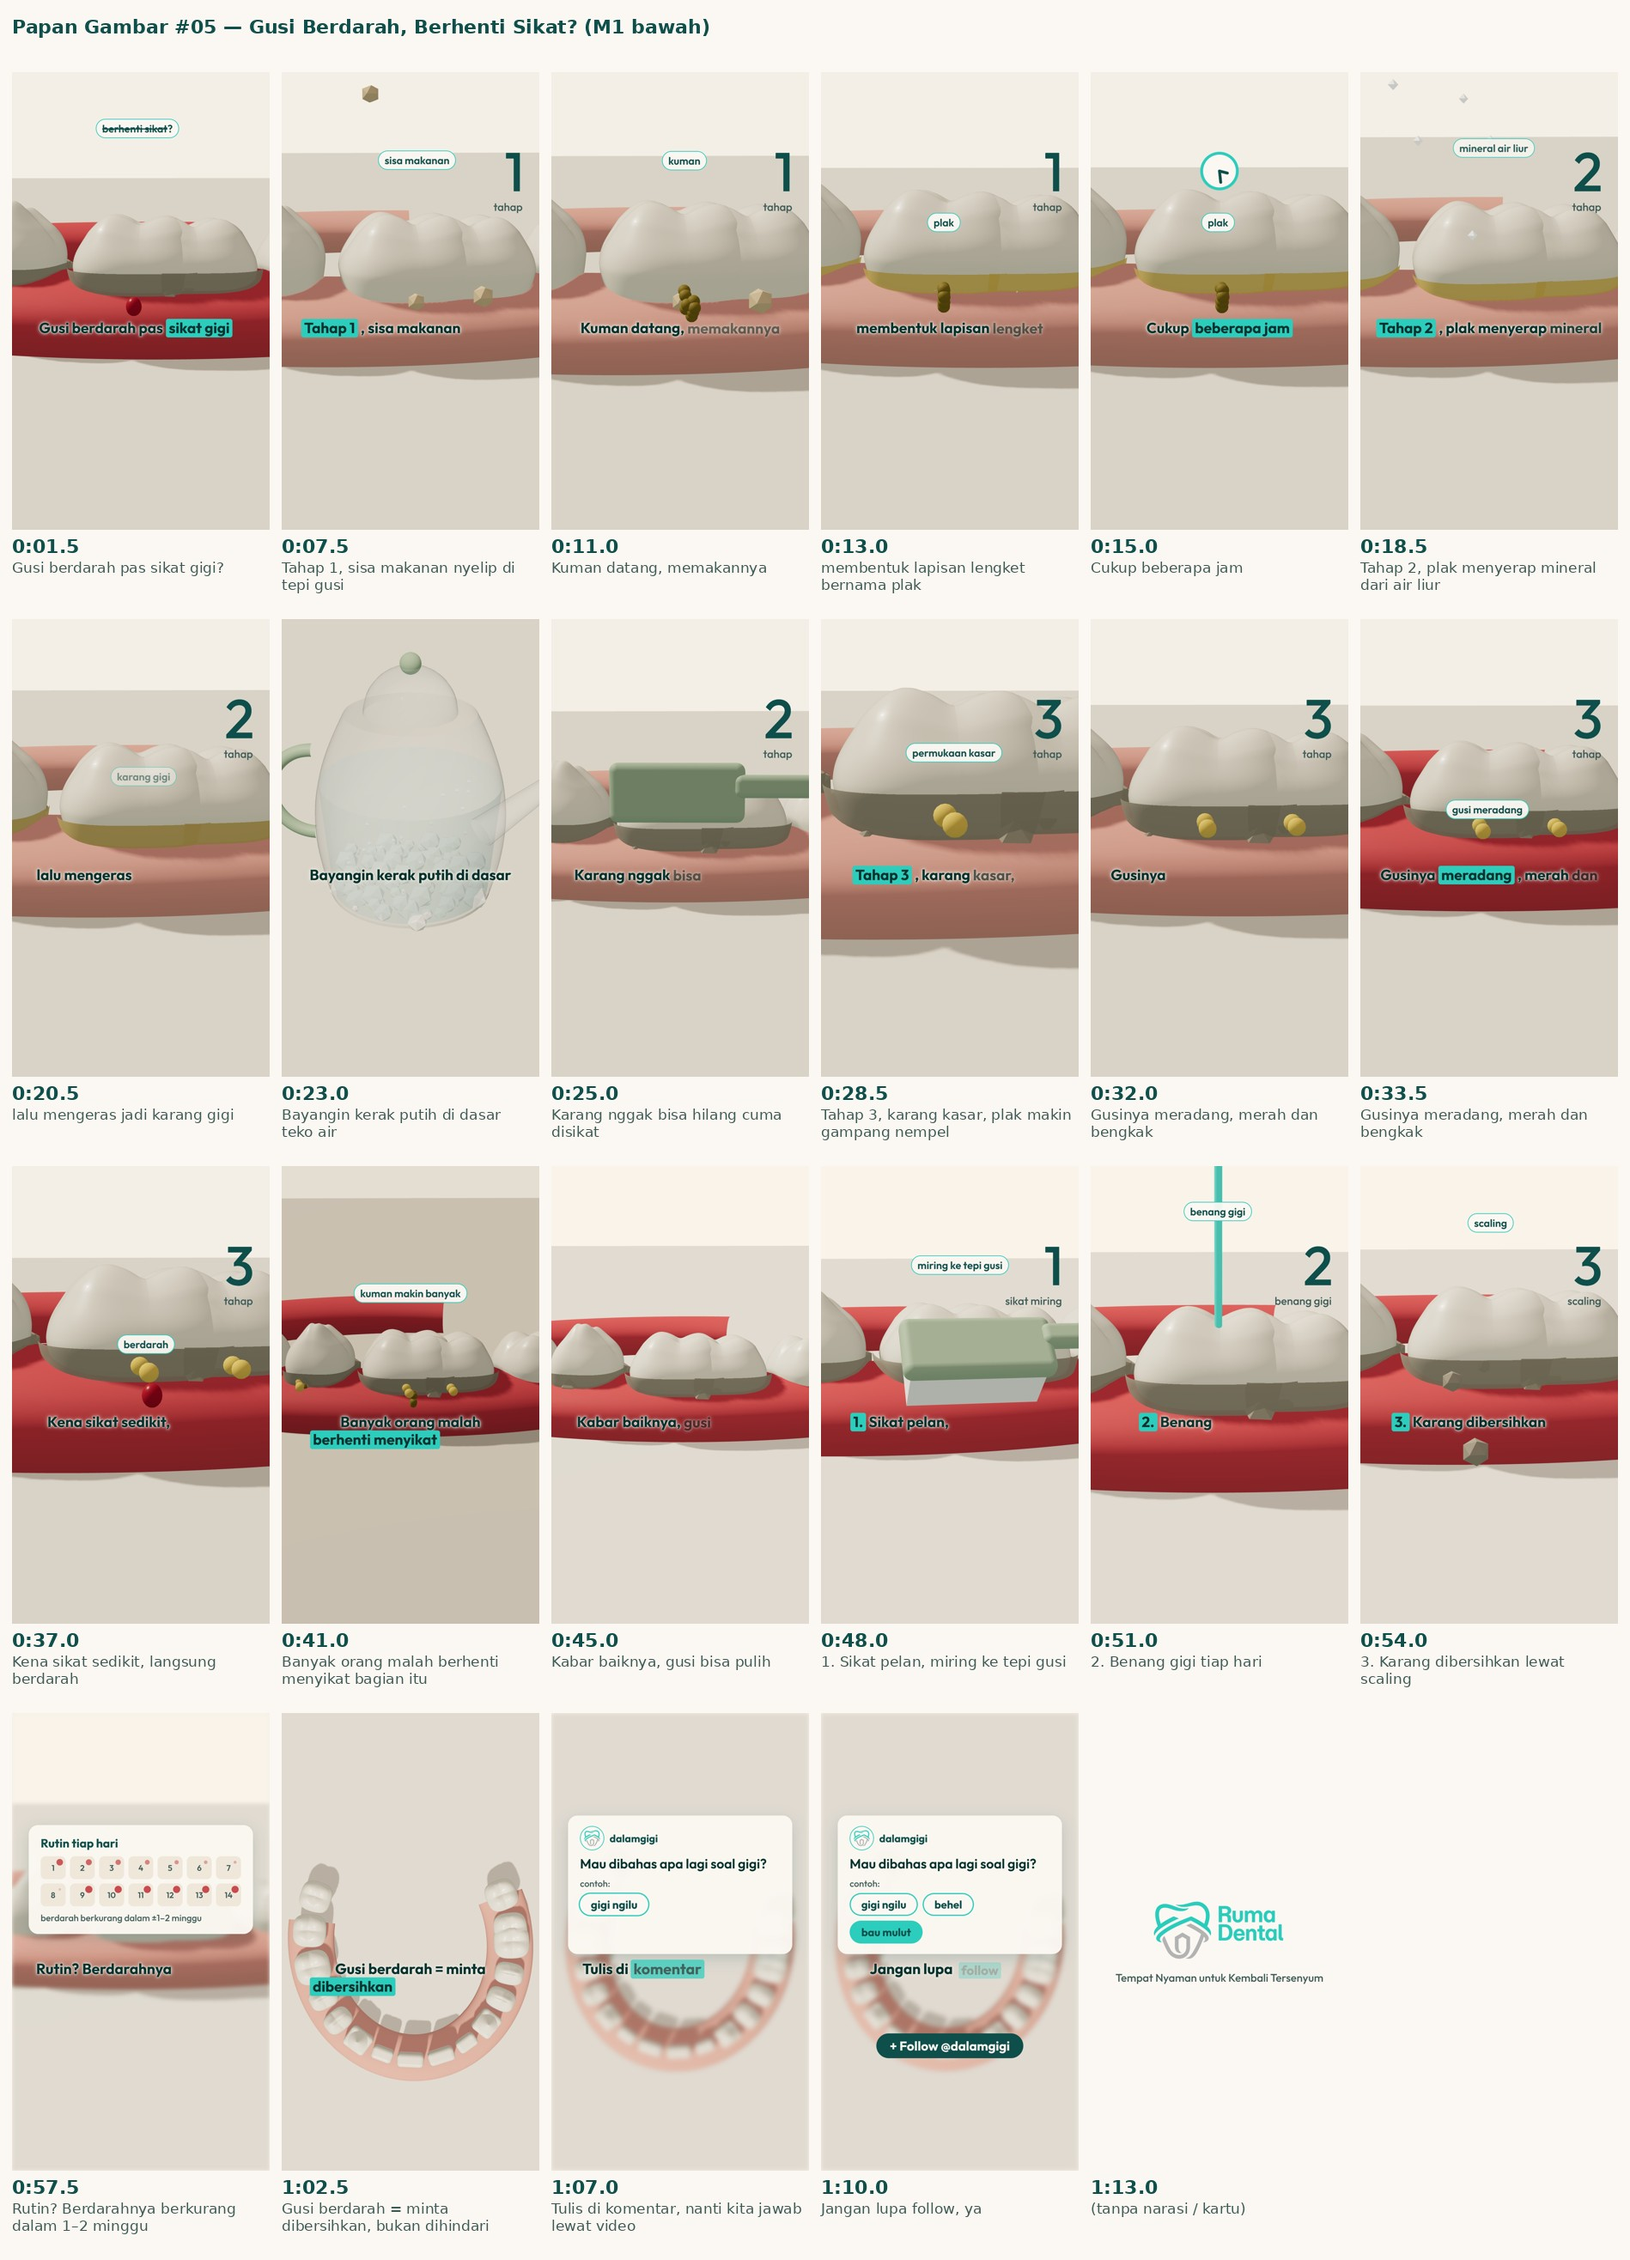
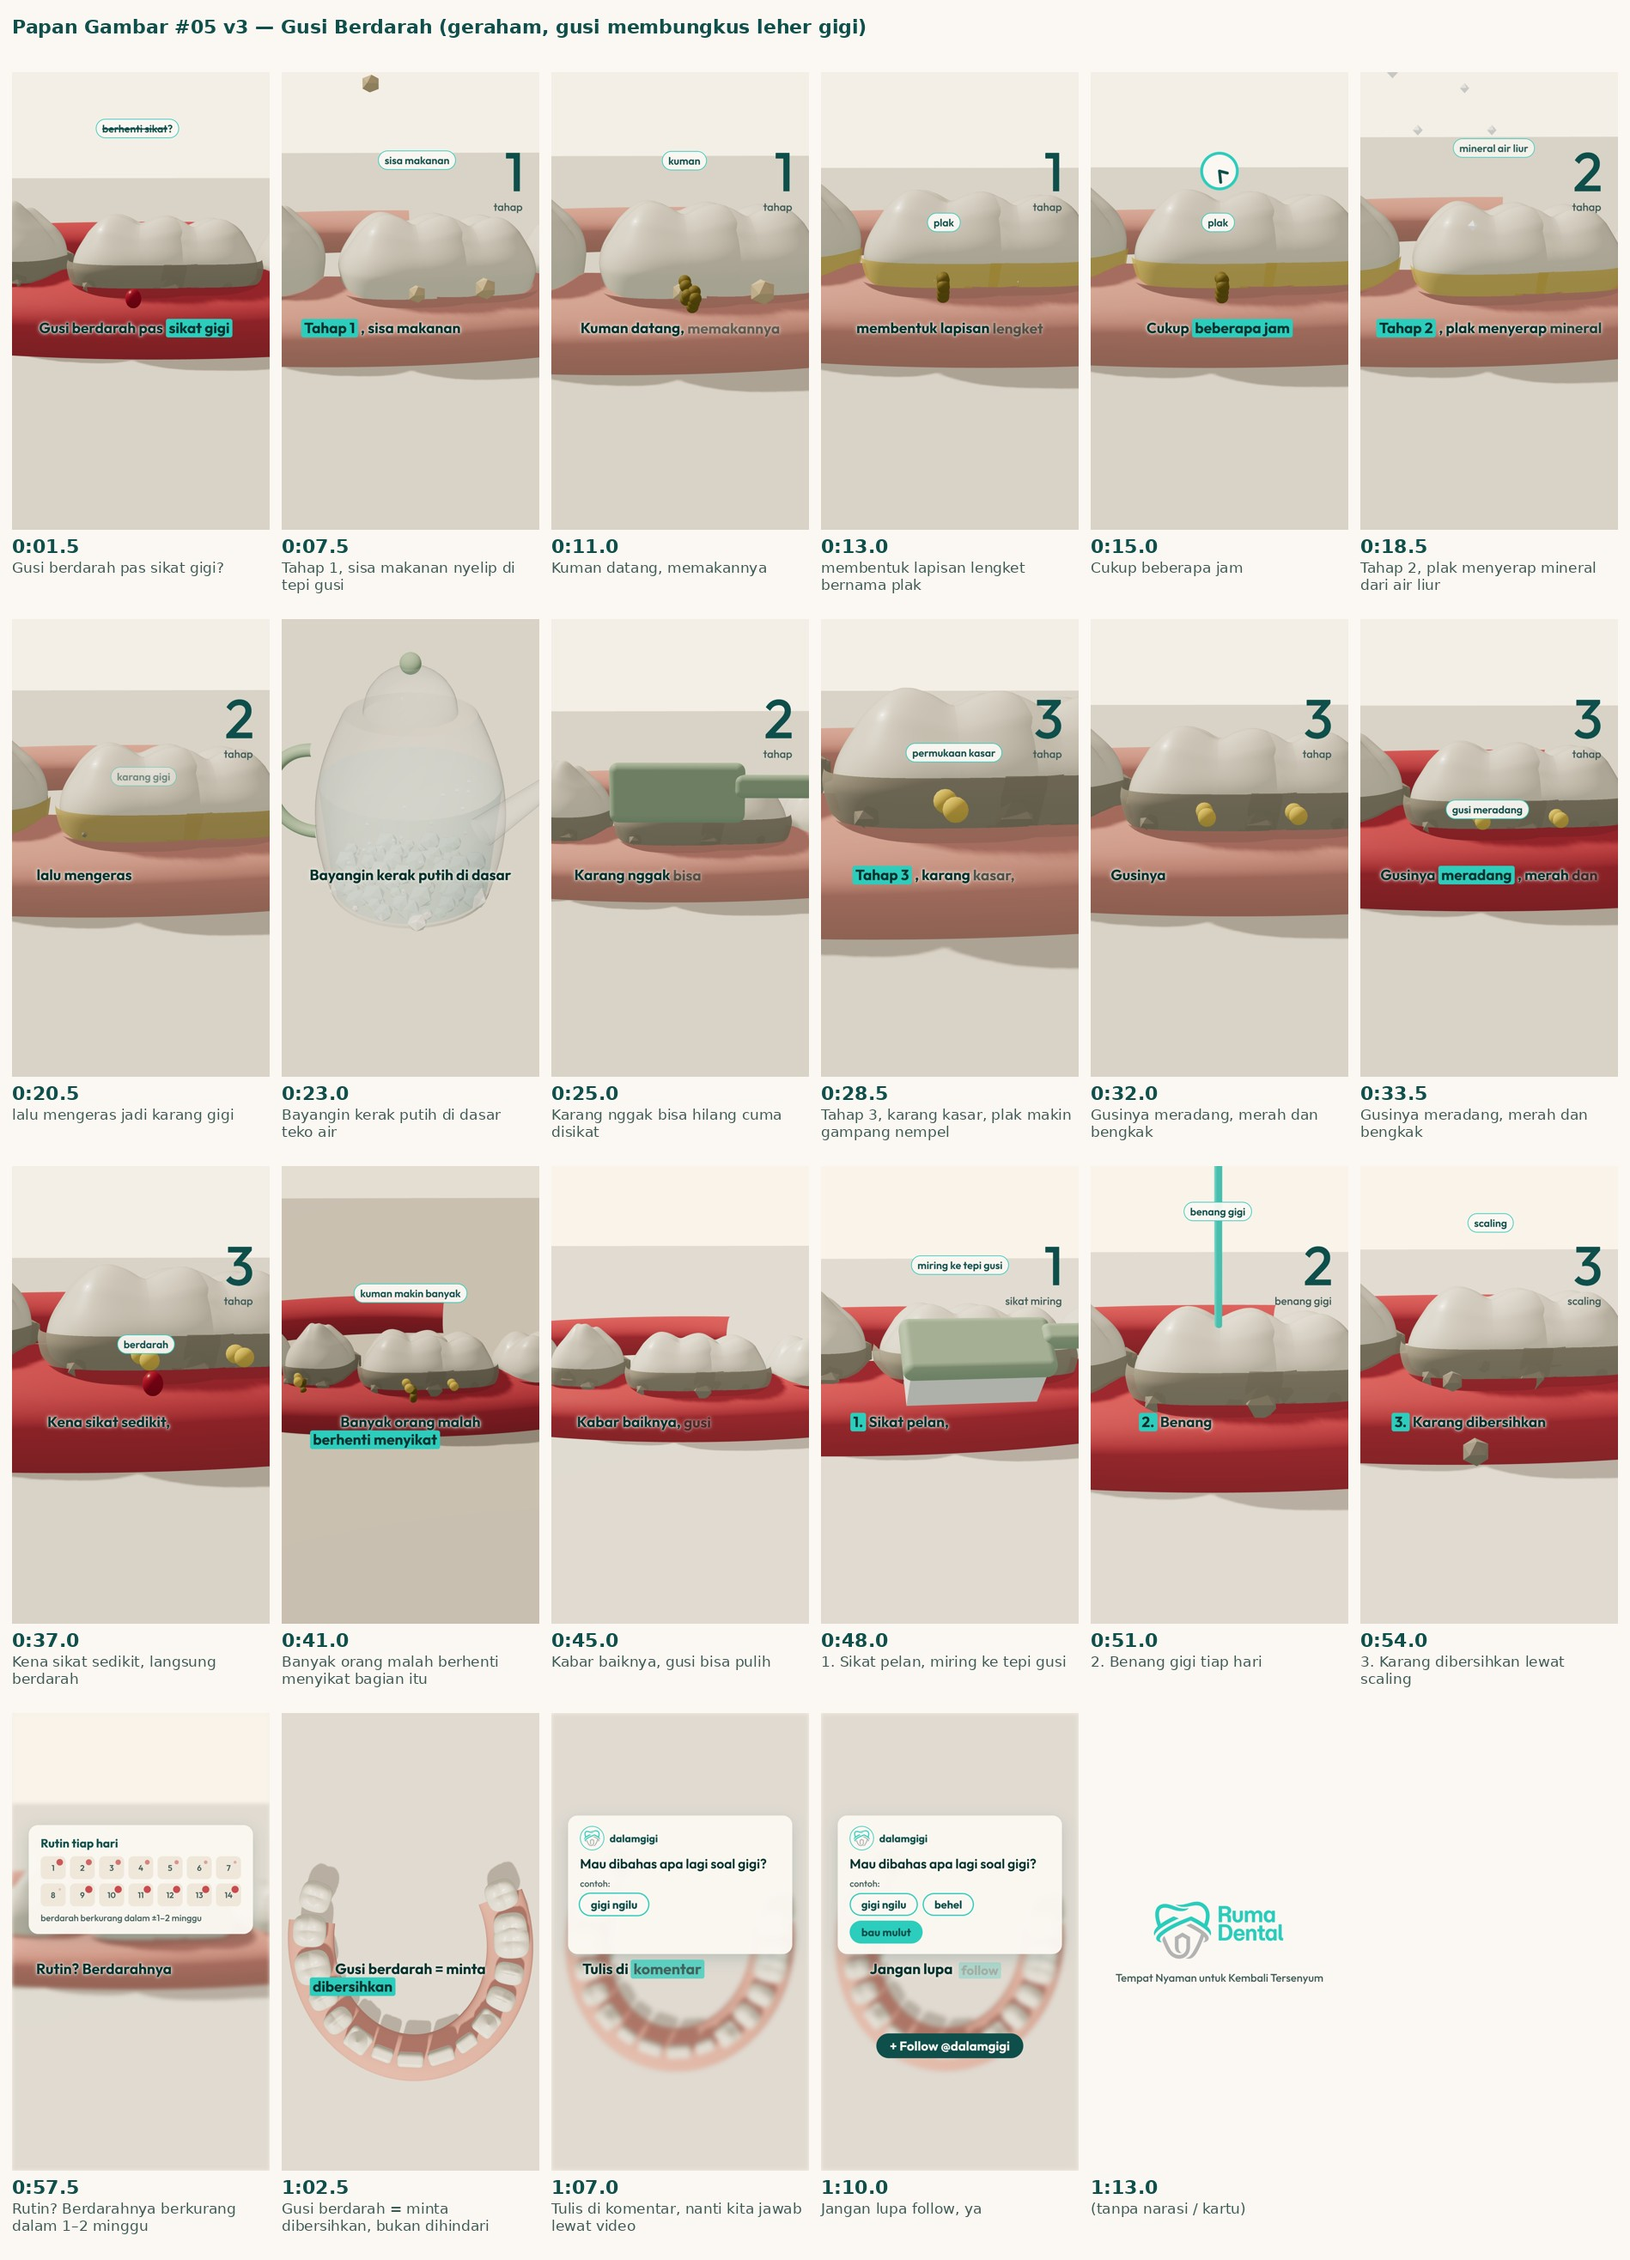
#05 v3 papan: kerah gusi membungkus leher gigi; standar di skill
Claude-Session: https://claude.ai/code/session_016b8dWEsdGvtL7SNg39w4Un

diff --git a/.claude/skills/produksi-video-klinik/scripts/gusi.html b/.claude/skills/produksi-video-klinik/scripts/gusi.html
@@ -118,18 +118,20 @@ const teeth=[];
   const gum=new THREE.Mesh(new THREE.TubeGeometry(new THREE.CatmullRomCurve3(pts),180,0.7,24,false),gumM);gum.scale.y=0.42;gum.receiveShadow=true;archG.add(gum);archG.userData.gum=gum;
 })();
 archG.updateMatrixWorld(true);
+const collarM=gumM.clone();collarM.clippingPlanes=[new THREE.Plane(new THREE.Vector3(0,-1,0),0.27)];
+teeth.forEach(t=>{const c=new THREE.Mesh(t.g.children[0].geometry,collarM);c.scale.set(1.13,1,1.1);c.receiveShadow=true;t.g.add(c);});
 const front=teeth.filter(t=>t.side===1&&t.k>=4&&t.k<=6);
 // plaque/tartar bands on front teeth
-const bandM=new THREE.MeshStandardMaterial({color:'#E6C463',roughness:0.85,transparent:true,opacity:0,clippingPlanes:[new THREE.Plane(new THREE.Vector3(0,-1,0),0.36),new THREE.Plane(new THREE.Vector3(0,1,0),-0.1)]});
+const bandM=new THREE.MeshStandardMaterial({color:'#E6C463',roughness:0.85,transparent:true,opacity:0,clippingPlanes:[new THREE.Plane(new THREE.Vector3(0,-1,0),0.42),new THREE.Plane(new THREE.Vector3(0,1,0),-0.22)]});
 const bands=front.map(t=>{const m=new THREE.Mesh(t.g.children[0].geometry,bandM);t.g.add(m);return m;});
 // tartar chunks
 const chunkM=new THREE.MeshStandardMaterial({color:'#A39C8E',roughness:1,flatShading:true});
-const chunks=[];front.forEach((t,ti)=>{for(let i=0;i<6;i++){const m=new THREE.Mesh(new THREE.IcosahedronGeometry(0.05+0.02*((i+ti)%3),0),chunkM);const sx=(i%2?1:-1);m.position.set(sx*t.d*0.42,0.2+0.04*((i*3)%4),(i/5-0.5)*t.w*0.7);m.scale.setScalar(0.001);t.g.add(m);chunks.push(m);}});
+const chunks=[];front.forEach((t,ti)=>{for(let i=0;i<6;i++){const m=new THREE.Mesh(new THREE.IcosahedronGeometry(0.05+0.02*((i+ti)%3),0),chunkM);const sx=(i%2?1:-1);m.position.set(sx*t.d*0.43,0.3+0.03*((i*3)%4),(i/5-0.5)*t.w*0.7);m.scale.setScalar(0.001);t.g.add(m);chunks.push(m);}});
 // food bits, bacteria, minerals, blood
 const mid=teeth.find(t=>t.side===1&&t.k===5).p.clone();
 const outN=V(mid.x,0,mid.z).sub(V(0,0,-0.4)).normalize();
 const nrmOf=t=>V(t.p.x,0,t.p.z).sub(V(0,0,-0.4)).normalize();
-const gumEdge=(i,n)=>{const t=front[i%front.length];return t.p.clone().addScaledVector(nrmOf(t),t.d*0.42+0.05).setY(0.24);};
+const gumEdge=(i,n)=>{const t=front[i%front.length];return t.p.clone().addScaledVector(nrmOf(t),t.d*0.45+0.06).setY(0.3);};
 const foodM=new THREE.MeshStandardMaterial({color:'#D9C3A0',roughness:0.9});
 const food=[];for(let i=0;i<9;i++){const m=new THREE.Mesh(new THREE.IcosahedronGeometry(0.045+0.015*(i%3),0),foodM);m.visible=false;m.userData={tgt:i<3?mid.clone().addScaledVector(outN,0.3).setY(0.42+0.07*i):gumEdge(i).add(V(Math.sin(i*1.7)*0.2,0.02,0.04)),d:i*0.12};archG.add(m);food.push(m);}
 const bacM=new THREE.MeshStandardMaterial({color:'#8C7A2E',roughness:0.6});
@@ -197,9 +199,9 @@ window.render=function(T){
   bandM.opacity=Math.min(0.92,Math.max(plaq*0.8,tart>0?0.95:0));
   bandM.color.set('#E6C463').lerp(new THREE.Color('#A39C8E'),Math.min(1,tart));
   bands.forEach(b=>{const s=1.035+0.05*Math.min(1.25,tart);b.scale.set(s,1,s);b.visible=bandM.opacity>0.01;});
-  bandM.clippingPlanes[0].constant=0.34+0.06*Math.min(1.25,tart);
+  bandM.clippingPlanes[0].constant=0.4+0.06*Math.min(1.25,tart);
   chunks.forEach((c,i)=>{c.scale.setScalar(Math.max(0.001,Math.min(1.3,tart)*(0.8+0.4*((i*5)%3)/2)));});
-  const gum=archG.userData.gum;gumM.color.set('#E3A49B').lerp(new THREE.Color('#D2585E'),infl);gum.scale.y=0.42*(1+0.12*infl);
+  const gum=archG.userData.gum;gumM.color.set('#E3A49B').lerp(new THREE.Color('#D2585E'),infl);collarM.color.copy(gumM.color);gum.scale.y=0.42*(1+0.12*infl);collarM.clippingPlanes[0].constant=0.27+0.03*infl;
   // food
   food.forEach(m=>{const t0=K.t1+0.6+m.userData.d;const vis=T>=t0&&T<K.plak+1.2&&!pot;m.visible=vis;if(!vis)return;const k=ease(P(T,t0,0.5));m.position.copy(m.userData.tgt).add(V(0,1.6*(1-k),0.3*(1-k)));m.scale.setScalar(1-P(T,K.plak+0.4,0.8));});
   // bacteria
@@ -254,7 +256,7 @@ window.render=function(T){
   ];
   let si=0;for(let i=0;i<shots.length;i++)if(T>=shots[i][0])si=i;
   let [cp,lk]=shots[si][1](T);
-  const hard=[4,5];
+  const hard=[4,5,15];
   if(si>0&&!hard.includes(si)){const bl=ease(P(T,shots[si][0],0.75));if(bl<1){const [pp,pl]=shots[si-1][1](T);cp=pp.clone().lerp(cp,bl);lk=pl.clone().lerp(lk,bl);}}
   cam.position.copy(cp);cam.lookAt(lk);cam.updateMatrixWorld();
   const dim=P(T,K.masalah,1.0)*(1-P(T,K.good,0.6));const warm=P(T,K.good,0.8);
@@ -298,7 +300,7 @@ window.render=function(T){
   kineticSub(sub,T,SUBS,WORDS);
   card.style.display=T>=K.card?'flex':'none';card.style.opacity=P(T,K.card,0.5);
   let fo=T<0.3?1-P(T,0,0.3):0;
-  for(const c of [K.teko,K.sikatkarang,K.good]){if(T>=c-0.3&&T<c+0.5)fo=Math.max(fo,T<c?ease(P(T,c-0.3,0.3)):1-ease(P(T,c,0.5)));}
+  for(const c of [K.teko,K.sikatkarang,K.good,K.ingat]){if(T>=c-0.3&&T<c+0.5)fo=Math.max(fo,T<c?ease(P(T,c-0.3,0.3)):1-ease(P(T,c,0.5)));}
   fade.style.background='#FBF8F3';fade.style.opacity=fo;
 };
 await document.fonts.load('200 230px Outfit');await document.fonts.load('700 62px Outfit');await document.fonts.load('600 44px Outfit');await document.fonts.load('800 54px Outfit');

diff --git a/.claude/skills/dalamgigi/SKILL.md b/.claude/skills/dalamgigi/SKILL.md
@@ -178,6 +178,7 @@ Cek 48–72 jam setelah terbit: bertahan lewat 3 detik, rata-rata waktu tonton, 
 - **#05: Pak Dir minta bentuk geraham dibuat betul-betul seperti asli.** Pakai fungsi `sculpt()` di `gusi.html` (mahkota menggembung, leher menyempit, 4–5 cusp menyatu + fisur; premolar 2 cusp). Plak/karang = salinan geometri gigi yang diperbesar sedikit dan dipotong (clipping) di tepi gusi, bukan kotak.
 - **Ilustrasi utama = geraham bawah (M1) dengan bentuk seperti M2** (keputusan Pak Dir 18 Nov, setelah mencoba versi 5-cusp anatomis): `sculpt()` 4 cusp + 1 kecil menyatu halus, leher menyempit. Kamera dipusatkan ke M1.
 - **Gusi harus menutupi semua gigi dan gigi berdiri di atasnya** (pelajaran #05 "offside"): tube gusi th −1,86…1,86, radius 0,7; shot lengkung dari atas harus **tegak lurus** (kamera tepat di atas), bukan miring dari depan.
+- **Gusi membungkus leher setiap gigi** (disukai Pak Dir, #05 v3): "kerah gusi" = salinan geometri gigi diperbesar ±12% berwarna gusi, dipotong (clipping) di y≈0,27, di atas tube gusi. Bentuk geraham/premolar dari `sculpt()` = standar (yang dilingkari Pak Dir).
 
 - **#03 dilewati Pak Dir ("kurang materinya").** Sebelum naskah diajukan, pastikan isi cukup padat: ada fakta "wah" yang jarang diketahui, proses yang ditunjukkan bertahap, dan cara yang konkret (bukan sekadar "ke dokter gigi"). Bandingkan kepadatan dengan #02/#04 yang diterima.
 
